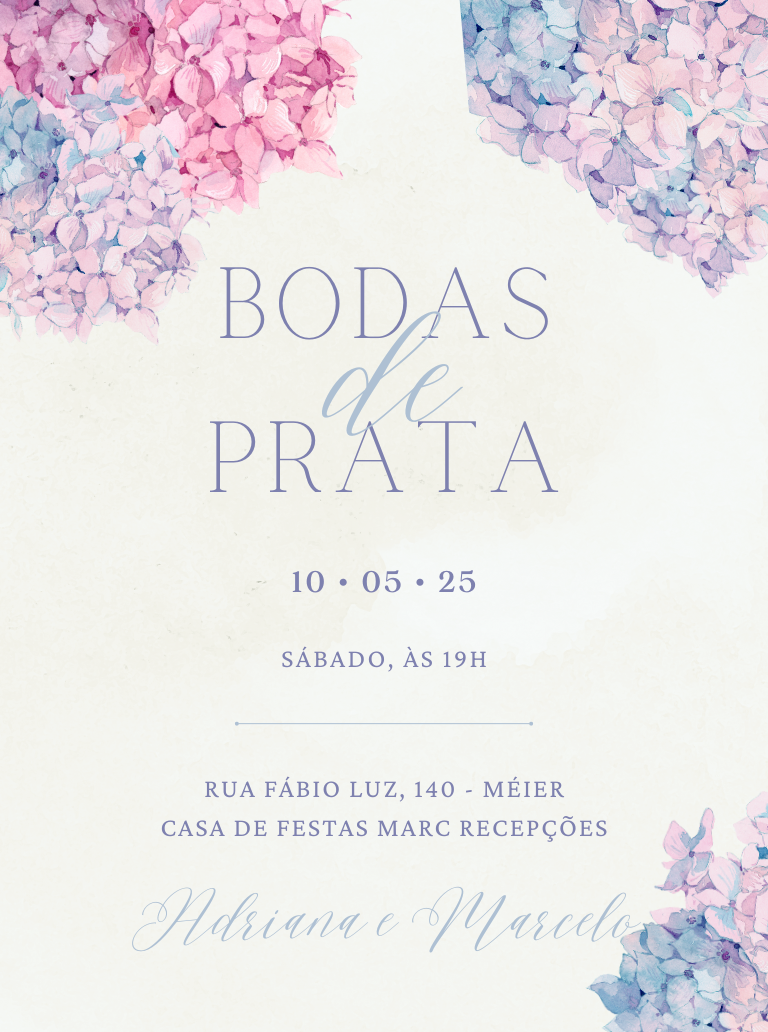
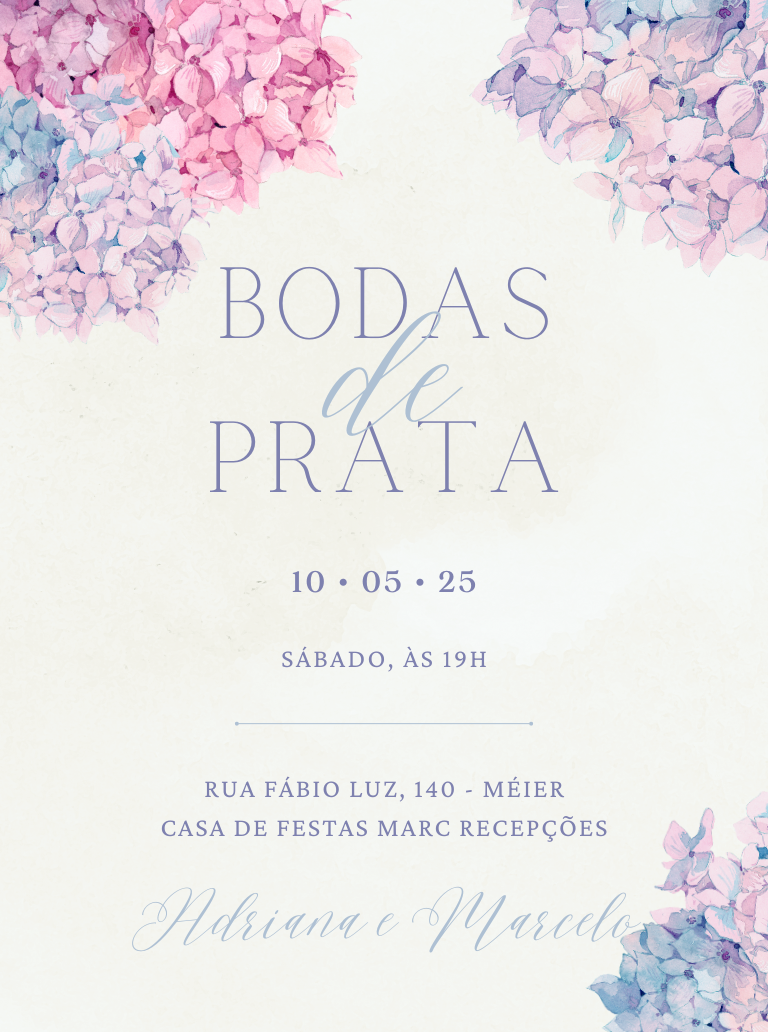
subindo

Changed region(s): [[0.5938, 0.0, 1.0, 0.2791]]

diff --git a/style/style.css b/style/style.css
@@ -7,6 +7,8 @@
   --secondary-font: "Sacramento", cursive;
   --prata: #C0C0C0;
   --azul: #ADD8E6;
+
+  --roxo: #7E81AF
 }
 
 /* Reset */
@@ -41,19 +43,148 @@ body {
 } */
 
 .hero {
+  display: flex;
+  flex-direction: column;
   position: relative;
   min-height: 100vh;
-  background-image: url("../img/bodas_fundo_desktop.png");
-  background-size: cover;
-  background-position: center;
   height: 100%;
-  /* background-color: var(--bg); */
+  overflow: hidden;
 }
 
-@media (max-width: 768px) {
-  .hero {
-    background-image: url("../img/bodas_fundo_tablet.png");
-  }
+
+.flor1 {
+  z-index: -5;
+  position: absolute;
+  left: -124px;
+  top: -114px;
+}
+
+.flor2 {
+  z-index: -5;
+  position: absolute;
+  right: -124px;
+  top: -114px;
+}
+
+.flor3 {
+  z-index: -5;
+  position: absolute;
+  right: -124px;
+  bottom: -114px;
+}
+
+.hero .line {
+  display: flex;
+  border-top: 1px solid var(--roxo);
+  margin-bottom: 24px;
+  margin-top: 24px;
+  position: relative;
+  width: 150px;
+}
+
+.hero .line::after {
+  content: '';
+  display: block;
+  background-color: var(--roxo);
+  border-radius: 50%;
+  height: 5px;
+  right: -2px;
+  position: absolute;
+  top: -2.85px;
+  width: 5px;
+}
+
+.hero .line::before {
+  content: '';
+  display: block;
+  background-color: var(--roxo);
+  border-radius: 50%;
+  height: 5px;
+  left: -2px;
+  position: absolute;
+  top: -2.85px;
+  width: 5px;
+}
+
+.bolinha {
+  display: inline-block;
+  width: 5px; /* Largura da bolinha */
+  height: 5px; /* Altura da bolinha */
+  background-color: var(--roxo); /* Cor da bolinha */
+  border-radius: 50%; /* Faz a bolinha ser circular */
+  margin: 0 10px; /* Espaçamento horizontal entre a bolinha e os números */
+}
+
+.font-1 {
+  font-family: "Crimson Pro", serif!important;
+}
+
+.font-2 {
+  font-family: "Playfair Display SC", serif!important;
+}
+
+
+.font-3 {
+  font-family: "Parisienne", cursive!important;
+}
+
+.font-4 {
+  font-family: "Crimson Pro", serif!important;
+}
+
+.hero .de {
+  font-size: 8rem !important;
+  font-weight: 100;
+  z-index: 99;
+}
+
+.hero h1 {
+  margin-bottom: 0px;
+  font-size: 7rem !important;
+}
+
+.hero .prata { 
+  margin-top: -104px;
+  margin-bottom: 72px;
+  letter-spacing: 12px;
+}
+
+.hero .bodas {
+  margin-bottom: -60px;
+  letter-spacing: 12px;
+}
+
+.hero .noivos {
+  font-size: 6rem;
+  font-weight: 100;
+  margin-top: 96px;
+}
+
+.hero .data{
+  align-items: center;
+  display: flex;
+  flex-direction: row;
+  gap: 16px;
+  margin-bottom: 24px;
+}
+
+.hero address,
+.hero .casa {
+  font-weight: 200;
+}
+
+.hero span,
+.hero address {
+  letter-spacing: 1px;
+  font-size: 2rem;
+  margin: 0px;
+}
+
+.hero h1,
+.hero span,
+.hero h2,
+.hero address {
+  color: var(--roxo);
 }
 
 .hero h1,
@@ -565,6 +696,14 @@ footer {
     right: auto;
     left: -13px;
   }
+
+  .hero .bodas {
+    margin-bottom: -40px;
+  }
+
+  .hero .prata {
+    margin-top: -84px;
+  }
 }
 
 /* Tablet */
@@ -595,6 +734,13 @@ footer {
     height: 140px;
   }
 
+  .hero .bodas {
+    margin-bottom: -35px;
+  }
+
+  .hero .prata {
+    margin-top: -75px; 
+  }
 }
 
 @media (max-width: 767px) {
@@ -644,5 +790,21 @@ footer {
 
   .timeline li .timeline-panel::after {
     top: 31px;
+  }
+
+  .hero .noivos {
+    font-size: 5rem;
+  }
+
+  .flor {
+    width: 350px;
+  }
+
+  .hero .bodas {
+    margin-bottom: -30px;
+  }
+
+  .hero .prata {
+    margin-top: -68px; 
   }
 }

diff --git a/index.html b/index.html
@@ -4,6 +4,11 @@
     <meta charset="utf-8" />
     <meta name="viewport" content="width=device-width, initial-scale=1" />
     <title>Bodas de prata - Adriana e Marcelo</title>
+    <!-- google fonts -->
+    <link rel="preconnect" href="https://fonts.googleapis.com">
+    <link rel="preconnect" href="https://fonts.gstatic.com" crossorigin>  
+    <!-- Fontes -->
+    <link href="https://fonts.googleapis.com/css2?family=Crimson+Pro:ital,wght@0,200..900;1,200..900&family=Crimson+Text:ital,wght@0,400;0,600;0,700;1,400;1,600;1,700&family=Parisienne&family=Playfair+Display+SC:ital,wght@0,400;0,700;0,900;1,400;1,700;1,900&display=swap" rel="stylesheet">
     <!-- Bootstrap -->
     <link href="https://cdn.jsdelivr.net/npm/bootstrap@5.3.0/dist/css/bootstrap.min.css" rel="stylesheet" integrity="sha384-9ndCyUaIbzAi2FUVXJi0CjmCapSmO7SnpJef0486qhLnuZ2cdeRhO02iuK6FUUVM" crossorigin="anonymous" />
     <link href="./style/bootstrap/css/bootstrap-grid.min.css" rel="stylesheet" integrity="sha384-9ndCyUaIbzAi2FUVXJi0CjmCapSmO7SnpJef0486qhLnuZ2cdeRhO02iuK6FUUVM" crossorigin="anonymous" />
@@ -21,6 +26,25 @@
   </head>
   <body>
     <section id="hero" class="hero w-100 h-100 p-3 margin-auto text-center d-flex justify-content-center align-items-center text-white">
+        <h1 class="font-2 bodas">Bodas</h1>
+        <h2 class="font-3 de">de</h2>
+        <h1 class="font-2 prata">Prata</h1>
+        <span class="font-4 data">
+          10 
+          <span class="bolinha"></span> 
+          05
+          <span class="bolinha"></span>
+          2025
+        </span>
+        <span class="font-1">SÁBADO, ÀS 19H</span>
+        <div class="line"></div>
+        <address class="font-4">RUA FÁBIO LUZ, 140 - MÉIER</address>
+        <span class="font-1 casa">CASA DE FESTAS MARC RECEPÇÕES</span>
+        <h2 class="font-3 noivos">Adriana e Marcelo</h2>
+        <img src="../img/flor1.png" alt="" class="flor flor1">
+        <img src="../img/flor-2.png" alt="" class="flor flor2">
+        <img src="../img/flor-2.png" alt="" class="flor flor3">
+        <div class="flor3"></div>
     </section>
 
     <nav class="navbar-custom">
